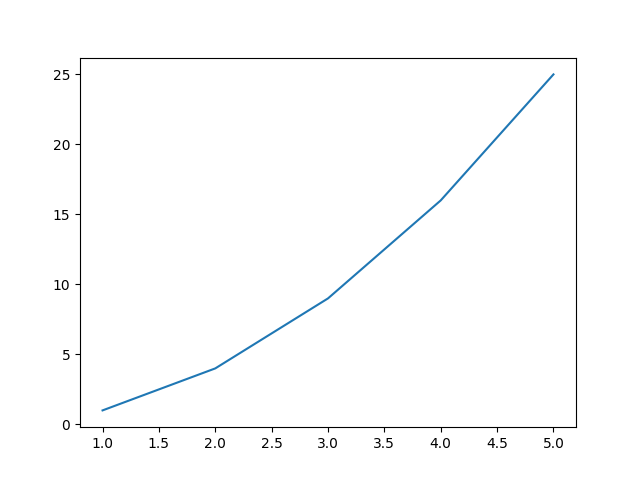
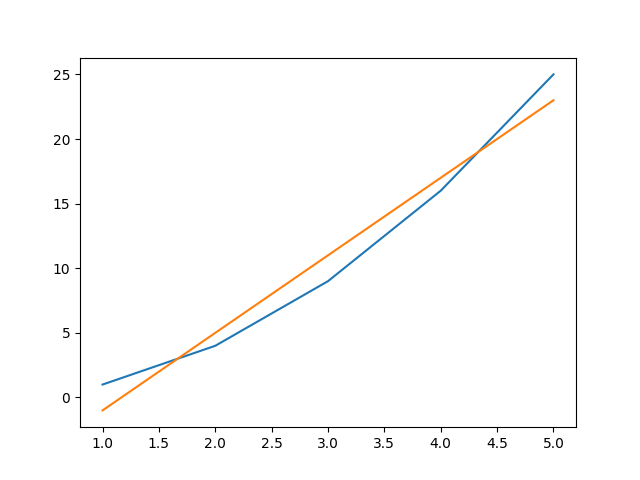
Final lab 6 report

diff --git a/Lab6/results_and_analysis/mosfet.tex b/Lab6/results_and_analysis/mosfet.tex
@@ -1,11 +1,11 @@
-The source and drain of an n-channel MOSFET are both formed by a metal-semiconductor junction with an n-type region in a p-type substrate. These regions exist in a p-type substrate. The gate is formed by placing an insulating oxide between a metal contact and the aforementioned p-type substrate. When a high voltage is applied at the gate, this attracts attracts excess electrons toward the gate. The electrons cannot leave the substrate due to the insulating oxide layer. So, they simply build up just below the oxide. The number of electrons in this region, known as the channel, increases considerably. However, by the principle of low-level injection ($\delta p$ << $p$ under a perturbation, the applied voltage in this case), the number of holes in the p-type substrate does not change considerably. The conductivity of a semiconductor is given by equation (\ref{eq:cond_semi}):
+The source and drain of an n-channel MOSFET are both formed by a metal-semiconductor junction with an n-type region in a p-type substrate. The gate is formed by placing an insulating oxide between a metal contact and the aforementioned p-type substrate. When a high voltage is applied at the gate, this attracts attracts excess electrons toward the gate. The electrons cannot leave the substrate due to the insulating oxide layer. So, they simply build up just below the oxide. The number of electrons in this region, known as the channel, increases considerably. However, by the principle of low-level injection ($\delta p \ll p$ under a perturbation, the applied voltage in this case), the number of holes in the p-type substrate does not change considerably. The conductivity of a semiconductor is given by equation (\ref{eq:cond_semi}):
 
 \begin{equation}
 	\label{eq:cond_semi}
 	\sigma = q(\mu_n n + \mu_p p)
 \end{equation}
 
-Here, $\sigma$ is the conductivity, $q$ is the elementary charge, $\mu_n$ is the electron mobility, $\mu_p$ is the hole mobility, $n$ is the electron concentration, and $p$ is the hole concentration. Since $p$ does not change very much, but $n$ increases considerably, $\sigma$ increases. At a certain point, the channel essentially acts like a conductor. Electrons can now move freely between the source and drain terminals (reference - mosfet\_op).
+Here, $\sigma$ is the conductivity, $q$ is the elementary charge, $\mu_n$ is the electron mobility, $\mu_p$ is the hole mobility, $n$ is the electron concentration, and $p$ is the hole concentration. Since $p$ does not change very much, but $n$ increases considerably, $\sigma$ increases. At a certain point, the channel essentially acts like a conductor. Electrons can now move freely between the source and drain terminals (1).
 
 The situation is actually a bit more complicated. Depletion regions exist between the source and the gate and the gate and the drain. When $V_{GS}$ exceeds a threshold voltage, call it $V_{Th}$, the depletion region is overcome, much like in a pn-junction diode. Since the channel acts as a conductor, electrons, the majority carrier in the source, can now flow freely into the channel between the source and drain terminals. When $V_{GS} \leq V_{Th}$, the diode is "off" and is said to be in the cut-off region. The expected $I_D$ versus $V_{GS}$ plot is shown below. $I_D$ is essentially $0$ in the cut-off region and "turns on" after a certain threshold:
 
@@ -13,7 +13,7 @@ The situation is actually a bit more complicated. Depletion regions exist betwee
 
 \begin{figure}[h!]
 	\centering
-	\includegraphics[scale=0.75]{../images/id_vs_vgs.PNG}
+	\includegraphics[scale=0.75]{./images/id_vs_vgs.PNG}
 	\caption{Expected $I_D$ versus $V_{GS}$ Curve for an n-Channel MOSFET}
 	\label{fig:id_vs_vgs}
 \end{figure}
@@ -22,7 +22,7 @@ The situation is actually a bit more complicated. Depletion regions exist betwee
 
 Once the electrons have migrated from the source to the channel, the drain-source voltage, or $V_{DS}$ becomes important. Assume the MOSFET is in the "on" state in which $V_{GS} > V_{Th}$. The channel conductance is essentially constant and given by equation (\ref{eq:cond_semi}). Thus, the channel can be modeled as a simple resistor. By increasing $V_{D}$ and therefore $V_{DS}$, the drain can attract electrons more strongly, causing a greater electron current to flow from the drain. So, for small variations in $V_{DS}$, $I_{D}$ increases approximately linearly with $V_{DS}$. This is known as the triode region and occurs when $V_{DS} < V_{GS} - V_{Th}$.
 
-However, this trend cannot continue indefinitely. At a certain point, electrons are so strongly attracted to the drain, that the channel loses many electrons, causing its conductivity to drop. This causes the drain current $I_{D}$ to taper off since the effect of attracting electrons to the drain by increasing $V_{DS}$ is counteracted by the drop in channel conductance. In integrated circuits, the channel width is small enough that the electrons are limited by velocity saturation, causing the same effect (reference - vel\_sat). This is known as the saturation region and occurs when $V_{GS} < V_{Th}$. However, with a sufficiently high $V_{DS}$, the voltage may be high enough to produce a strong enough electric field to force electrons from the source through the channel to the drain (reference - lab\_manual).
+However, this trend cannot continue indefinitely. At a certain point, electrons are so strongly attracted to the drain, that the channel loses many electrons, causing its conductivity to drop. This causes the drain current $I_{D}$ to taper off since the effect of attracting electrons to the drain by increasing $V_{DS}$ is counteracted by the drop in channel conductance. In integrated circuits, the channel width is small enough that the electrons are limited by velocity saturation, causing the same effect (2). This is known as the saturation region and occurs when $V_{GS} - V_{Th} < V_{DS}$ (3). However, with a sufficiently high $V_{DS}$, the voltage may be high enough to produce a strong enough electric field to force electrons from the source through the channel to the drain.
 
 When $V_{GS}$ is increased, a greater electron current flows from the channel to the source. Therefore, the diode can operate in the triode region for longer because it can now draw a larger electron current from the drain to the channel. The saturation region still occurs, but at a higher drain current $I_D$. The expected plot is below with higher values of $V_{GS}$ reaching higher saturation drain currents $I_D$.
 
@@ -32,7 +32,7 @@ When $V_{GS}$ is increased, a greater electron current flows from the channel to
 
 \begin{figure}[h!]
 	\centering
-	\includegraphics[scale=0.75]{../images/id_vs_vds.PNG}
+	\includegraphics[scale=0.75]{./images/id_vs_vds.PNG}
 	\caption{Expected $I_D$ versus $V_{DS}$ Curve for an n-Channel MOSFET}
 	\label{fig:id_vs_vds}
 \end{figure}
@@ -72,7 +72,7 @@ Note that gate voltages can be obtained by probing the pins in the MOSFET packag
 	\centering
 	\caption{MOSFET $I_D$ versus $V_{GS}$ Data}
 	\label{tab:mosfet_id_vgs}
-	\csvautotabular{../tables/mosfet_id_vgs.csv}
+	\csvautotabular{./tables/mosfet_id_vgs.csv}
 \end{table}
 
 \FloatBarrier
@@ -85,7 +85,7 @@ Note that gate voltages can be obtained by probing the pins in the MOSFET packag
 
 \begin{figure}[h!]
 	\centering
-	\includegraphics[scale=0.75]{../images/mosfet_id_vgs.PNG}
+	\includegraphics[scale=0.75]{./images/mosfet_id_vgs.PNG}
 	\caption{MOSFET $I_D$ versus $V_{GS}$ Plot}
 	\label{fig:mosfet_id_vgs}
 \end{figure}
@@ -102,10 +102,12 @@ To acquire the $I_D$ versus $V_{DS}$ plot, $V_1$ is fixed at about $2.3$\si{\vol
 	\centering
 	\caption{MOSFET $I_D$ versus $V_{DS}$ Data}
 	\label{tab:mosfet_id_vds}
-	\csvautotabular{../tables/mosfet_id_vds.csv}
+	\csvautotabular{./tables/mosfet_id_vds.csv}
 \end{table}
 
-(\footnotesize $V_1$ is fixed at $2.3$\si{\volt}.}
+\FloatBarrier
+
+{\footnotesize $V_1$ is fixed at $2.3$\si{\volt}.}
 
 \FloatBarrier
 
@@ -113,7 +115,7 @@ To acquire the $I_D$ versus $V_{DS}$ plot, $V_1$ is fixed at about $2.3$\si{\vol
 
 \begin{figure}[h!]
 	\centering
-	\includegraphics[scale=0.75]{../images/mosfet_id_vds.PNG}
+	\includegraphics[scale=0.75]{./images/mosfet_id_vds.PNG}
 	\caption{MOSFET $I_D$ versus $V_{DS}$ Plot}
 	\label{fig:mosfet_id_vds}
 \end{figure}
@@ -123,9 +125,3 @@ To acquire the $I_D$ versus $V_{DS}$ plot, $V_1$ is fixed at about $2.3$\si{\vol
 The $I_D$ versus $V_{DS}$ curve is quite close to what is expected. The curve starts off linear when it is in the saturation region. The increased drain voltage relative to the source voltage is similar to increasing the voltage drop over an Ohmic resistor with the channel acting as the resistor. The voltage and current follow a linear relationship. The steepness of the curve reflects the low channel resistance. However, at a certain point, the drain voltage $V_{D}$ becomes very large relative to the gate voltage $V_{G}$. As a result, too many electrons flow to the drain, decreasing the channel's conductance and causing the curve to level off. The growth of the curve at the end is likely due to the very high voltage driving electrons to the drain as described above.
 
 Because $V_1$ is fixed at $2.3$\si{\volt}, $V_{GS} = 2.3$\si{\volt}. The MOSFET operates in the triode region for $V_{DS} < V_{GS} - V_{Th} \approx 2.3$ \si{\volt} $ - 2$ \si{\volt} $ = 0.3$ \si{\volt} assuming $V_{Th} \approx 2$ \si{\volt}. The triode region, though visible, is quite short lived due to the fact that $V_{GS} - V_{Th}$ is only greater than $V_{DS}$ at the very beginning of the curve. As a result, it quickly enters the saturation region. Increasing $V_{GS}$ would prolong the triode region and possibly flatten out the curve afterward.
-
-%Refs
-%https://coefs.uncc.edu/dlsharer/files/2012/04/J3b.pdf - mosfet_op
-%https://inst.eecs.berkeley.edu/~ee40/su05/lectures/lecture13.pdf
-%lab manual
-

diff --git a/Lab6/results_and_analysis/bjt.tex b/Lab6/results_and_analysis/bjt.tex
@@ -4,7 +4,7 @@ The BJT is comprised of a linear array of three layers of extrinsic semiconducto
 
 \begin{figure}[h!]
 	\centering
-	\includegraphics[scale=0.75]{../images/bjt_fig.PNG}
+	\includegraphics[scale=0.75]{./images/bjt_fig.PNG}
 	\caption{Schematic Symbol and Structure of PNP and NPN BJT}
 	\label{fig:id_vs_vgs}
 \end{figure}
@@ -21,7 +21,7 @@ The charge generated by the  NPN BJT is propagated by a forward bias applied acr
 
 \begin{figure}[h!]
 	\centering
-	\includegraphics[scale=3]{../images/bjt_ic_vbe_expected.PNG}
+	\includegraphics[scale=3]{./images/bjt_ic_vbe_expected.PNG}
 	\caption{Expected $I_C$ versus $V_{BE}$ Curve for a NPN BJT}
 	\label{fig:ic_vs_vbe}
 \end{figure}
@@ -34,7 +34,7 @@ After the electrons from the emitter region diffuse to the base region, a suffic
 
 \begin{figure}[h!]
 	\centering
-	\includegraphics[scale=0.75]{../images/bjt_ic_vce_expected.PNG}
+	\includegraphics[scale=0.75]{./images/bjt_ic_vce_expected.PNG}
 	\caption{Expected $I_C$ versus $V_{E}$ Curve for a NPN BJT}
 	\label{fig:ic_vs_vce}
 \end{figure}
@@ -74,9 +74,9 @@ The $I_C - V_{BE}$ plot is measured by fixing $V_2$ at 5V and sweeping $V_1$ fro
 
 \begin{table}[h!]
 	\centering
-	\caption{MOSFET $I_C$ versus $V_{BE}$ Data}
+	\caption{BJT $I_C$ versus $V_{BE}$ Data}
 	\label{tab:bjt_ic_vbe}
-	\csvautotabular{../tables/bjt_ic_vbe.csv}
+	\csvautotabular{./tables/bjt_ic_vbe.csv}
 \end{table}
 
 \FloatBarrier
@@ -89,7 +89,7 @@ Subsequently, the following plot is generated from the values in Table \ref{tab:
 
 \begin{figure}[h!]
 	\centering
-	\includegraphics[scale=0.4]{../images/bjt_ic_vbe.PNG}
+	\includegraphics[scale=0.4]{./images/bjt_ic_vbe.PNG}
 	\caption{BJT $I_C$ versus $V_{BE}$ Plot}
 	\label{fig:bjt_ic_vbe}
 \end{figure}
@@ -106,7 +106,7 @@ The $I_C - V_{CE}$ plot is measured by fixing $V_1$ at 1V and sweeping $V_2$ fro
 	\centering
 	\caption{BJT $I_C$ versus $V_{CE}$ Data}
 	\label{tab:bjt_ic_vce}
-	\csvautotabular{../tables/bjt_ic_vce.csv}
+	\csvautotabular{./tables/bjt_ic_vce.csv}
 	\\
 	(\footnotesize $V_1$ is fixed at $1$\si{\volt}.)
 \end{table}
@@ -121,7 +121,7 @@ Subsequently, the following plot is generated from the values in Table \ref{tab:
 
 \begin{figure}[h!]
 	\centering
-	\includegraphics[scale=0.4]{../images/bjt_ic_vce.PNG}
+	\includegraphics[scale=0.4]{./images/bjt_ic_vce.PNG}
 	\caption{BJT $I_C$ versus $V_{CE}$ Plot}
 	\label{fig:bjt_ic_vce}
 \end{figure}

diff --git a/Lab6/procedure/procedure.tex b/Lab6/procedure/procedure.tex
@@ -1,1 +1,1 @@
-The objective of this lab is to measure and investigate the static input, static output, and static transfer of BJTs and MOSFETs. The first part of the experiment includes building a circuit with voltage supplies, resistors, and a NPN transistor. The voltage of the first source (V\textsubscript{1}) is varied and V\textsubscript{BE} and I\textsubscript{C} is to be measured and plotted. The second step is then to modify the circuit and to measure and plot, V\textsubscript{CE} and I\textsubscript{C} while changing the second voltage source (V\textsubscript{2}). The circuit is then changed by replacing the BJT transistor with a MOSFET. The voltage of the first source is again varied, but this time V\textsubscript{GS} and I\textsubscript{D} are measured and plotted while V\textsubscript{T} (threshold voltage) is only measured. Lastly the value of V\textsubscript{GS} is set to 5V, and the second voltage source (V\textsubscript{2}) is varied to measure and plot V\textsubscript{DS} and I\textsubscript{D}. \\
+The objective of this lab is to determine the characteristics of bipolar-junction transistors (BJTs) and metal-oxide semiconductor field effect transistors (MOSFETs). The first part of the experiment involves building a circuit with a BJT. The voltage of the first source (V\textsubscript{1}) is varied, and a plot of $I_C$ against $V_{BE}$ is ascertained. The second step is to vary $V_2$ and acquire a plot for $I_C$ versus $V_{CE}$. The circuit is then changed by replacing the BJT with a MOSFET. The voltage of the first source is again varied, but this time a plot for $I_D$ against $V_{GS}$ is determined. A plot for $I_D$ against $V_{DS}$ is then acquired. More details on the implementation and measurements are included in each transistor's respective section. \\

diff --git a/Lab6/main.tex b/Lab6/main.tex
@@ -1,0 +1,39 @@
+\documentclass{article}
+\usepackage{listings}
+\input{preamble.tex}
+\begin{document}
+	\begin{titlepage}
+		\centering
+		\Huge{Experiment 6} \\
+		\huge{Characterization of Bipolar Junction Transistors and MOSFETs} \\
+		\vspace{1cm}
+		\large{EECS 170A - Lab Bench \#1} \\
+		\large{\today} \\
+		\vspace{1cm}
+		\normalsize{Roman Parise (59611417)} \\
+		\normalsize{Krishan Solanki (38154673)} \\
+		\normalsize{Jason Wang (42873192)} \\
+	\end{titlepage}
+\section{Procedure}
+\input{./procedure/procedure.tex}
+\section{Bipolar Junction Transistor (BJT)}
+\input{./results_and_analysis/bjt.tex}
+\section{Metal-Oxide Semiconductor Field Effect Transistor}
+\input{./results_and_analysis/mosfet.tex}
+\section{Discussion}
+\subsection{Bipolar Junction Transistor (BJT)}
+\input{./discussion/bjt_discussion.tex}
+\subsection{Metal-Oxide Semiconductor Field Effect Transistor (MOSFET)}
+\input{./discussion/mosfet_discussion.tex}
+\section{Appendix}
+The following script is used to generate the expected $I_D$ versus $V_{DS}$ curve for the MOSFET:
+\lstinputlisting[breaklines]{./scripts/id_vs_vds.py}
+The following script is used to generate the expected $I_D$ versus $V_{GS}$ curve for the MOSFET:
+\lstinputlisting[breaklines]{./scripts/id_vs_vgs.py}
+The following script is used to generate the tables and figures for the MOSFET:
+\lstinputlisting[breaklines]{./scripts/mosfet_data.py}
+\section{References}
+1. \url{https://coefs.uncc.edu/dlsharer/files/2012/04/J3b.pdf} \\
+2. \url{https://inst.eecs.berkeley.edu/~ee40/su05/lectures/lecture13.pdf} \\
+3. Lab manual \\
+\end{document}

diff --git a/common/scripts/common.py b/common/scripts/common.py
@@ -4,6 +4,8 @@
 # Common functions for data processing
 import csv
 import matplotlib.pyplot as plt
+import numpy as np
+from scipy import stats
 
 WRITE="w"
 COMMA_DELIMITER=","
@@ -42,7 +44,16 @@ def save_plot_xy( fname , x_list , y_list ) :
 	plt.savefig( fname )
 	plt.clf( )
 
+def save_plot_xy_with_best_fit_line( fname , x_list , y_list ) :
+	plt.plot( x_list , y_list )
+	m , b , r , p , e = stats.linregress( x_list , y_list )
+	x = np.linspace( min( x_list ) , max( x_list ) , 100 * len( x_list ) )
+	y = m * x  + b
+	plt.plot( x , y )
+	plt.savefig( fname )
+	plt.clf( )
+
 if __name__ == "__main__" :
 	rows = read_csv_rows( "test.csv" )
 	print( rows )
-	save_plot_xy( "test_file.png" , rows[ 0 ] , rows[ 1 ] )
+	save_plot_xy_with_best_fit_line( "test_file.png" , rows[ 0 ] , rows[ 1 ] )

diff --git a/Lab6/preamble.tex b/Lab6/preamble.tex
@@ -1,4 +1,7 @@
 \usepackage{csvsimple}
+\usepackage{spreadtab}
+\usepackage{url}
+\usepackage{amsmath}
 \usepackage{placeins}
 \usepackage{graphicx}
 \usepackage{circuitikz}
